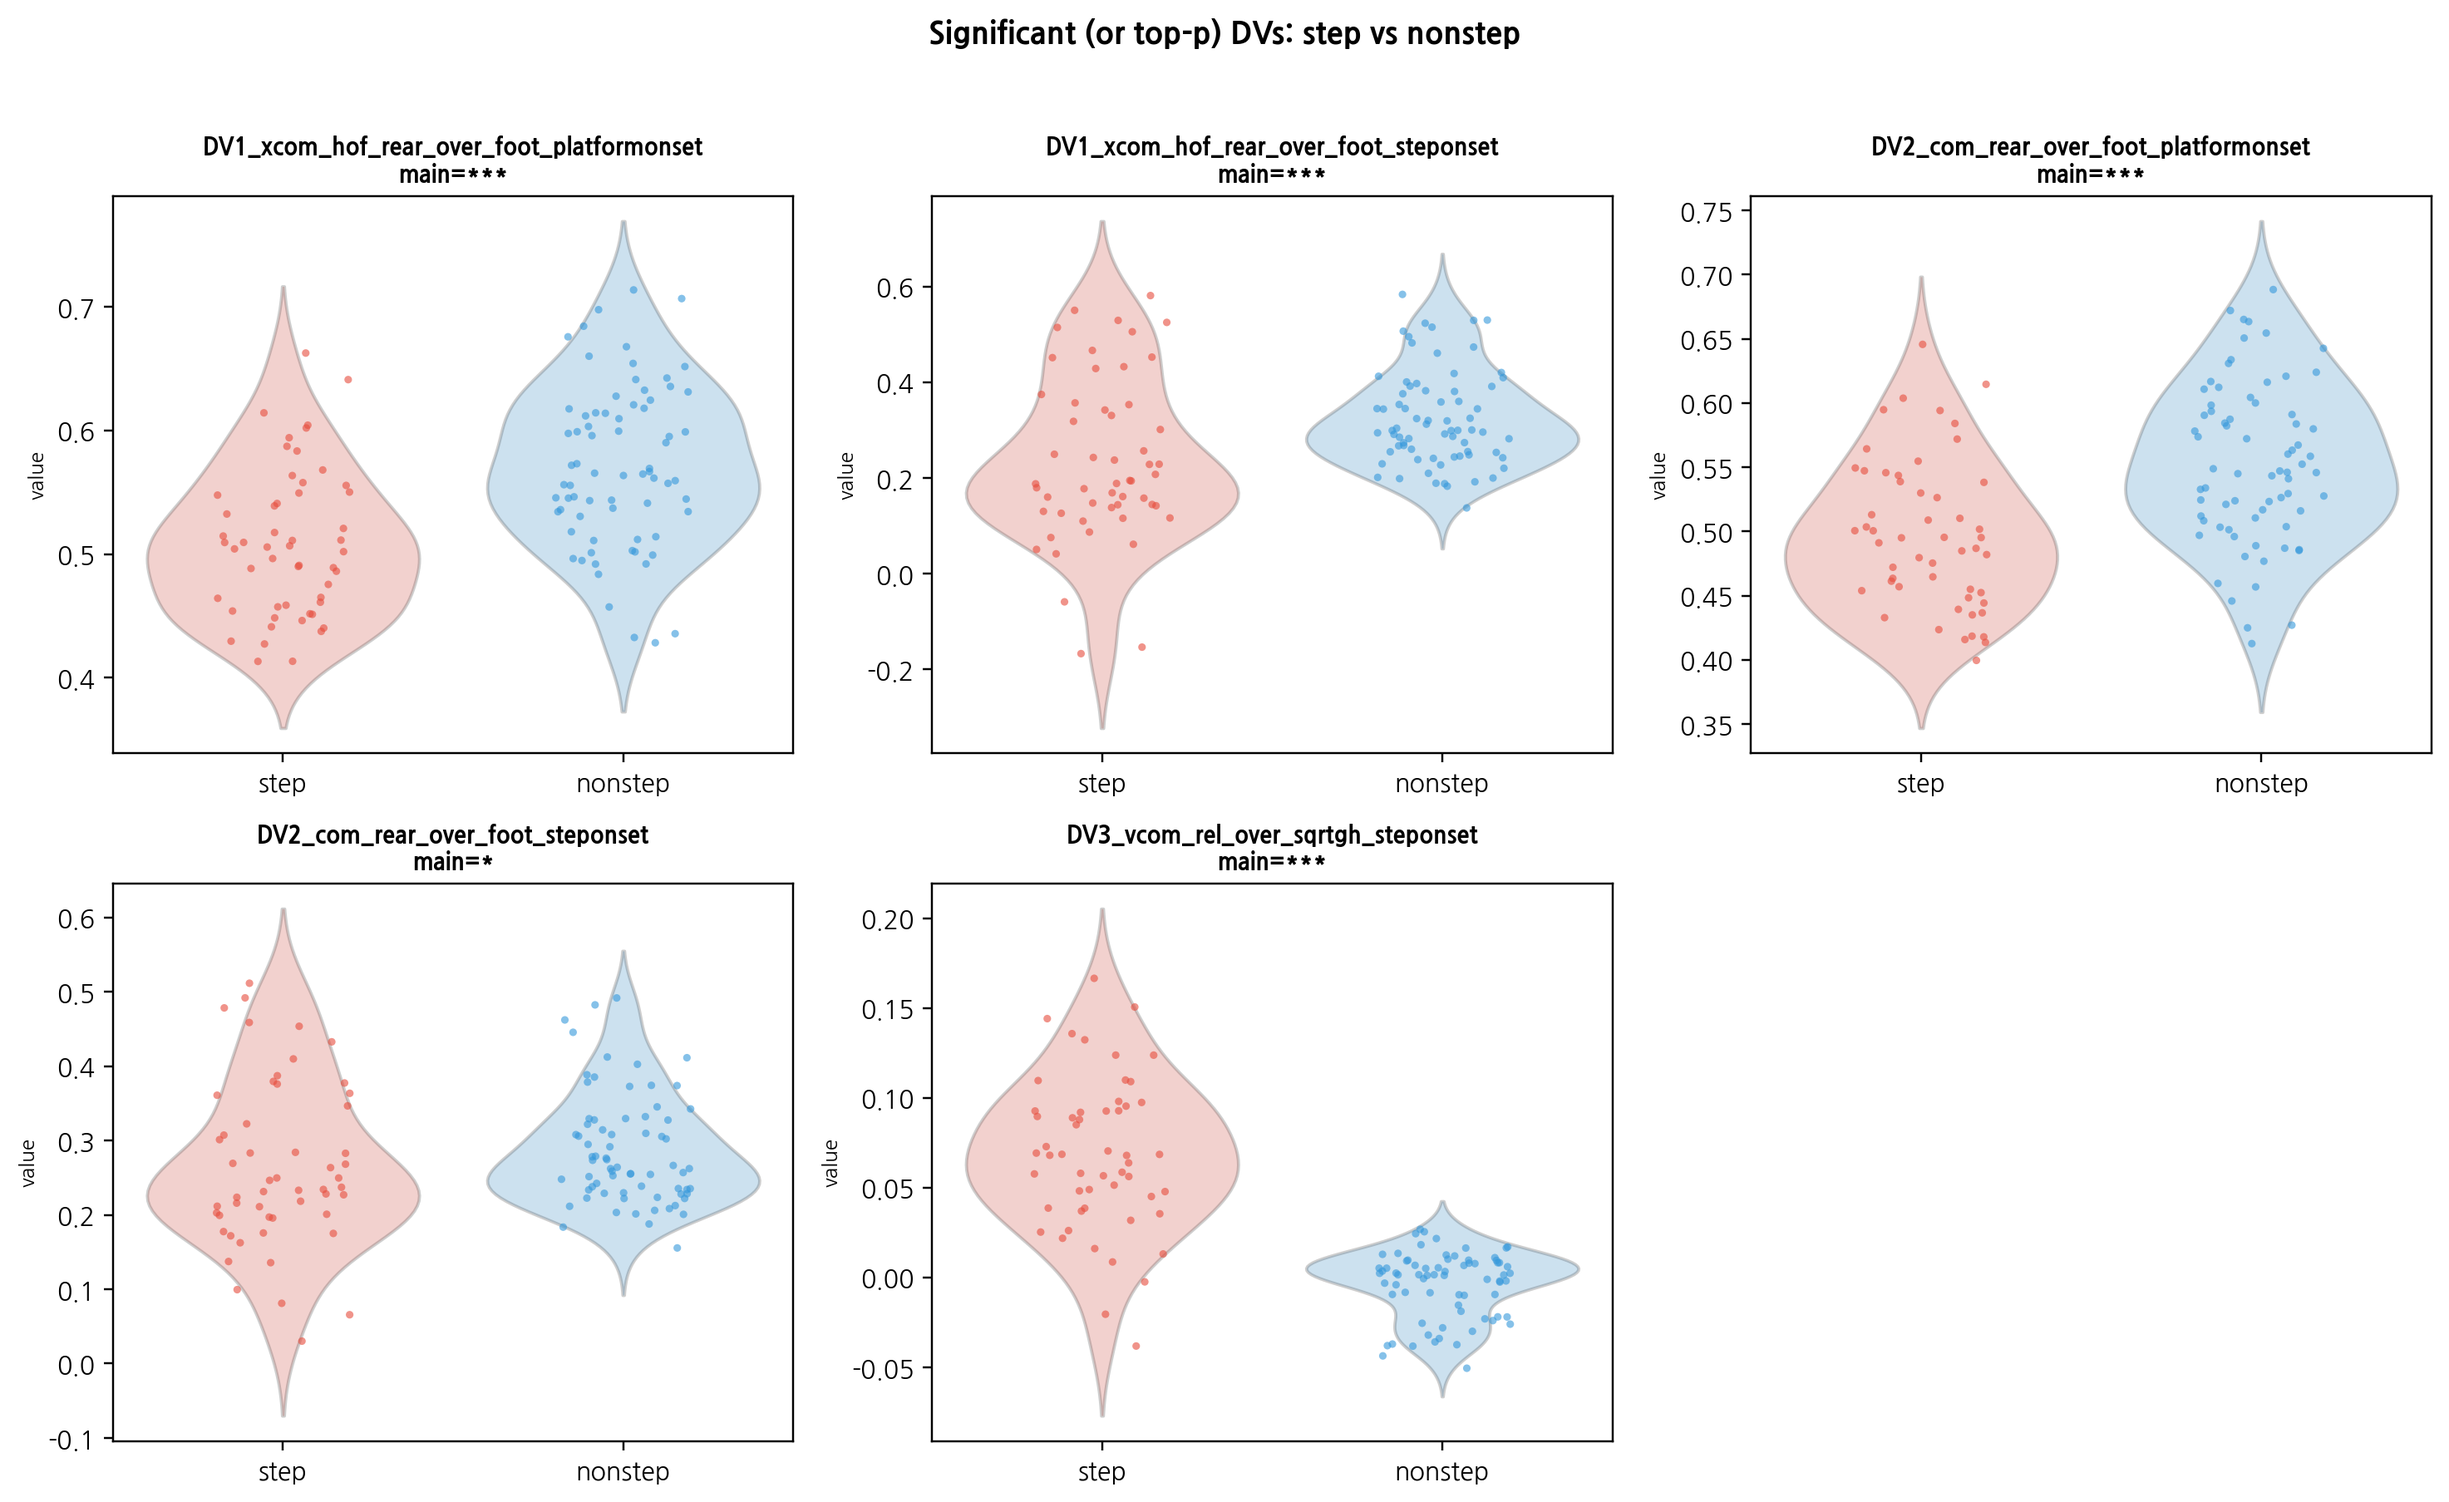
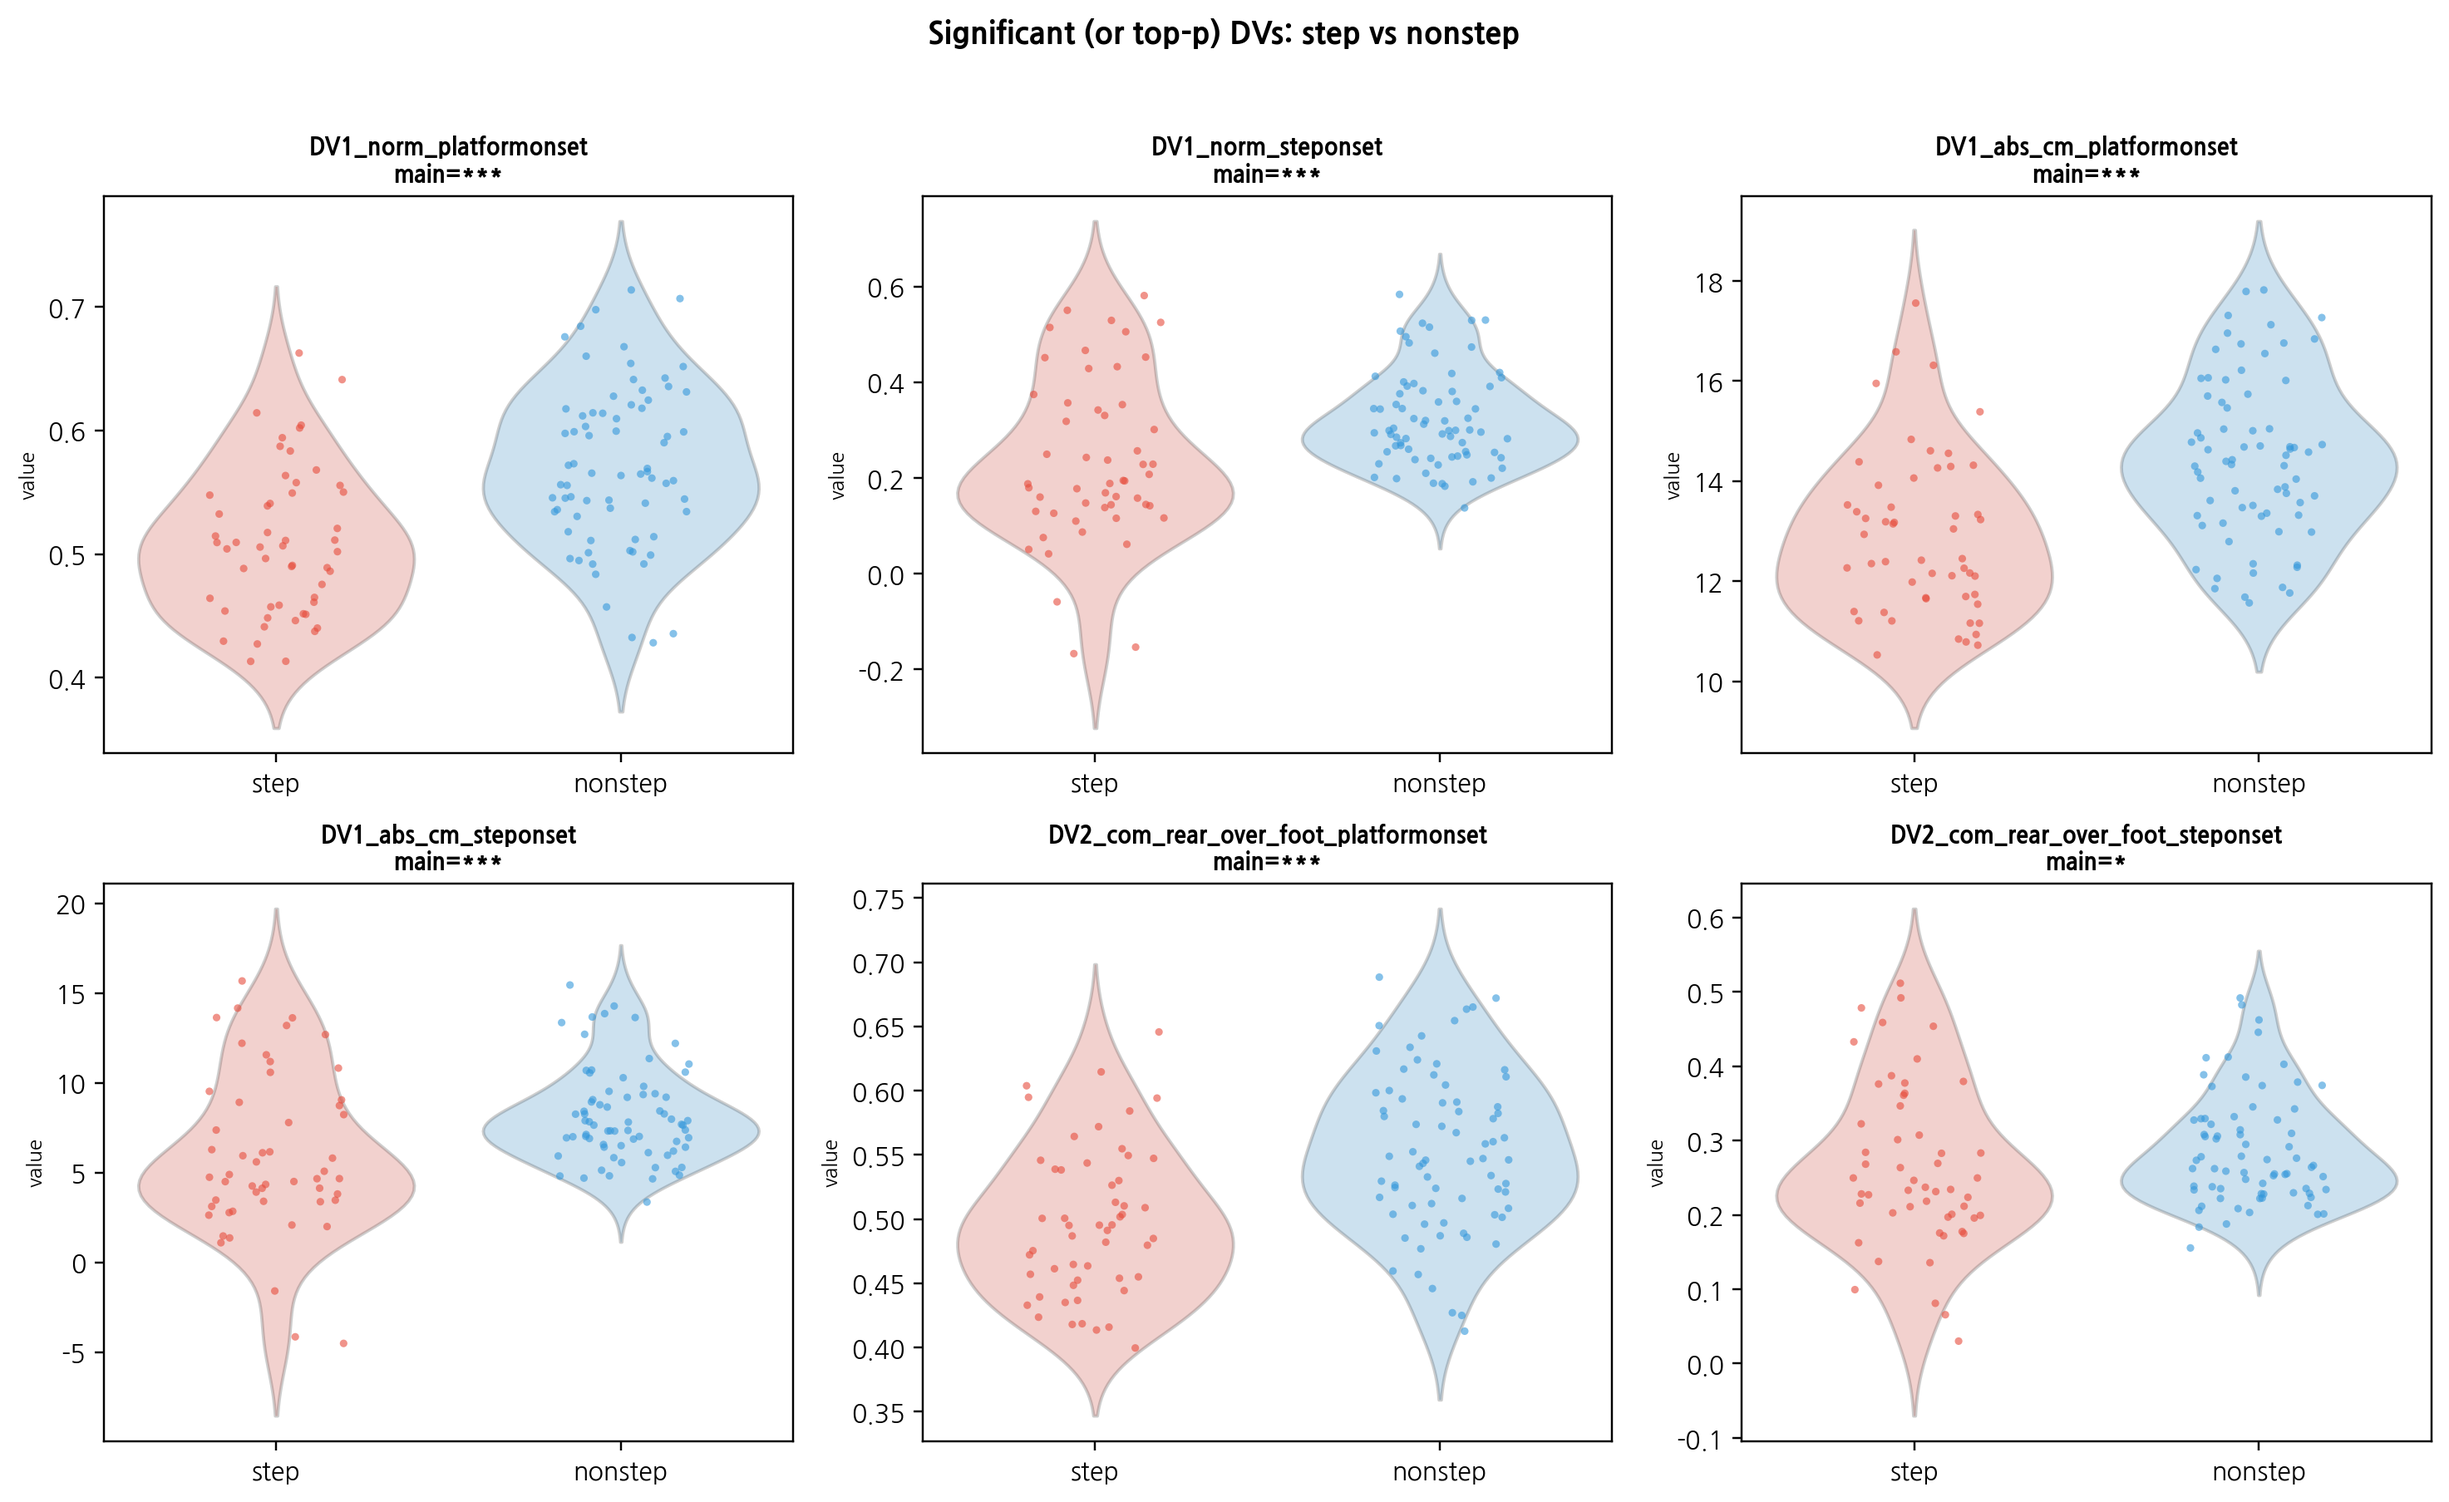
DV1에 foot_len 정규화 버전(primary)을 추가하고 절대 cm를 보조로 병행 유지
- analyze_xcom_bos_normalization_lmm.py:
  - DV1_norm = (xCOM - BOS_rear) / foot_len 추가 (primary, LMM 통계 검정용)
  - DV1_abs_cm = (xCOM - BOS_rear) × 100 유지 (supplementary, 크기 해석용)
  - build_dv_specs()에 norm(2개) + abs_cm(2개) = 4개 DV1 spec 등록
  - 선행연구(Salot, Patel, Bhatt)와 동일한 foot_len 정규화 체계로 일관성 확보
- 결과) 주제 2 - COM, MOS.md:
  - DV1 산출 방법에 두 버전(norm/abs_cm) 공식 및 역할 설명 추가
  - LMM 결과를 Primary(정규화) + Supplementary(절대 cm) 구조로 재편
  - 결론에 "통계 검정은 정규화 기준, cm 환산 병기" 명시

diff --git a/analysis/xCOM&BOS_normalization/analyze_xcom_bos_normalization_lmm.py b/analysis/xCOM&BOS_normalization/analyze_xcom_bos_normalization_lmm.py
@@ -407,8 +407,26 @@ def _compute_trial_event_frames(
 
 def build_dv_specs() -> list[dict]:
     return [
+        # DV1 Primary: foot-length normalized (dimensionless)
         {
-            "dv": "DV1_xcom_bos_rear_abs_cm_platformonset",
+            "dv": "DV1_norm_platformonset",
+            "frame_col": "dv1_xcom_bos_rear_norm",
+            "event_col": "platform_eval_frame",
+            "metric": "DV1_xcom_bos_rear_norm",
+            "event": "platform_onset",
+            "paper_group": "VanWouwe+Salot+Patel+Bhatt",
+        },
+        {
+            "dv": "DV1_norm_steponset",
+            "frame_col": "dv1_xcom_bos_rear_norm",
+            "event_col": "step_onset_eval",
+            "metric": "DV1_xcom_bos_rear_norm",
+            "event": "step_onset",
+            "paper_group": "VanWouwe+Salot+Patel+Bhatt",
+        },
+        # DV1 Supplementary: absolute cm (for interpretation)
+        {
+            "dv": "DV1_abs_cm_platformonset",
             "frame_col": "dv1_xcom_bos_rear_abs_cm",
             "event_col": "platform_eval_frame",
             "metric": "DV1_xcom_bos_rear_abs_cm",
@@ -416,7 +434,7 @@ def build_dv_specs() -> list[dict]:
             "paper_group": "VanWouwe+Salot+Patel+Bhatt",
         },
         {
-            "dv": "DV1_xcom_bos_rear_abs_cm_steponset",
+            "dv": "DV1_abs_cm_steponset",
             "frame_col": "dv1_xcom_bos_rear_abs_cm",
             "event_col": "step_onset_eval",
             "metric": "DV1_xcom_bos_rear_abs_cm",
@@ -547,6 +565,10 @@ def load_and_prepare(csv_path: Path, xlsm_path: Path, dv_specs: list[dict]) -> t
             pl.col("BOS_minX").alias("bos_rear"),
         )
         .with_columns(
+            pl.when(pl.col("foot_len_m") > 0)
+            .then((pl.col("xcom_hof") - pl.col("bos_rear")) / pl.col("foot_len_m"))
+            .otherwise(None)
+            .alias("dv1_xcom_bos_rear_norm"),
             ((pl.col("xcom_hof") - pl.col("bos_rear")) * 100.0)
             .alias("dv1_xcom_bos_rear_abs_cm"),
             pl.when(pl.col("foot_len_m") > 0)
@@ -783,7 +805,8 @@ def _event_label(v: str) -> str:
 
 def _metric_label(metric: str) -> str:
     mapping = {
-        "DV1_xcom_bos_rear_abs_cm": "DV1 xCOM_hof - BOS_rear (cm)",
+        "DV1_xcom_bos_rear_norm": "DV1 (xCOM-rear) / foot_len",
+        "DV1_xcom_bos_rear_abs_cm": "DV1 xCOM-rear (cm, suppl.)",
         "DV2_com_rear_over_foot": "DV2 COM-rear / foot_len",
         "DV3_vcom_rel_over_sqrtgh": "DV3 (vCOM-vBOSrear) / sqrt(g*h)",
     }
